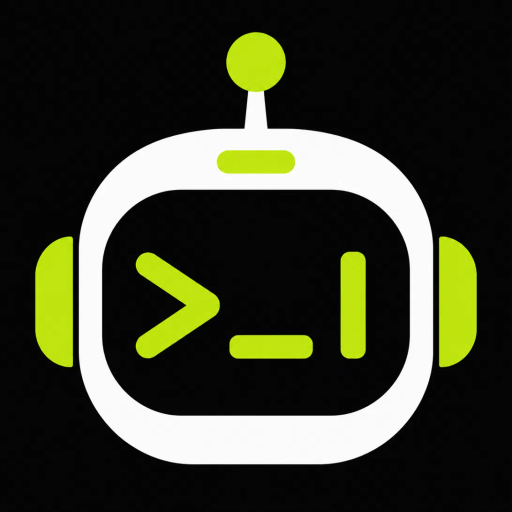
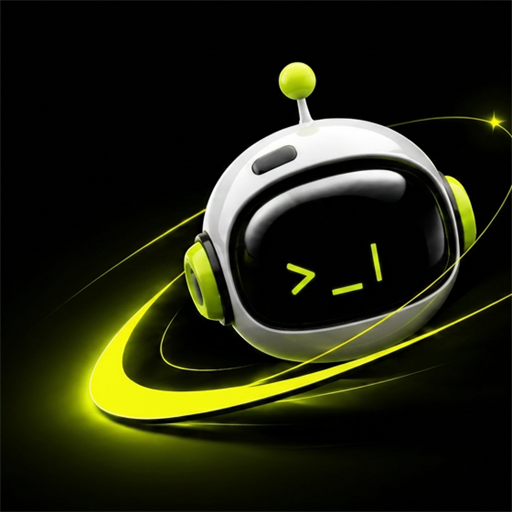
Fix broken og:image, ship updated brand assets, and move sandbox CTA into hero
og-share-card.png was referenced by index.html's og:image/twitter:image
meta tags but was never actually committed - every social share of
testpilotapp.dev has been showing a broken preview image. Added it.

The other four brand PNGs (favicon, apple-touch-icon, icon-512,
instagram-avatar) were re-exported with an alpha channel; losslessly
recompressed with sharp/libvips (compressionLevel 9) before committing
- same pixel dimensions and color data, just not bloated.

Also moved the sandbox demo CTA out of the hero button row and into a
large bordered callout in the hero's open right-hand space (in normal
flow below 1300px width, so it stays visible and doesn't overlap the
headline on tablet/mobile).

Claude-Session: https://claude.ai/code/session_015RNKx7jXYoVMfcrp4KXZBT

diff --git a/landing.html b/landing.html
@@ -226,24 +226,80 @@
 
   .btn-ghost:hover { color: var(--white); border-color: var(--white); }
 
-  .btn-sandbox {
-    display: inline-flex;
-    align-items: center;
-    gap: 10px;
-    background: transparent;
-    color: var(--accent);
-    font-family: 'Syne', sans-serif;
-    font-size: 15px;
-    font-weight: 700;
-    padding: 14px 30px;
-    border-radius: 2px;
-    border: 2px solid var(--accent);
+  /* Big, unmissable sandbox CTA — sits in the empty right side of the hero
+     next to the headline on wide screens; in normal flow (no overlap risk)
+     on anything narrower, including mobile. */
+  .hero-sandbox {
+    display: block;
     text-decoration: none;
-    letter-spacing: -0.2px;
-    transition: transform 0.15s, background 0.15s, color 0.15s;
+    margin-top: 44px;
+    max-width: 480px;
+    padding: 32px 34px;
+    border: 2px solid var(--accent);
+    background: rgba(200, 240, 64, 0.05);
+    opacity: 0;
+    animation: fadeUp 0.7s 0.55s forwards;
+    transition: transform 0.2s ease, background 0.2s ease, border-color 0.2s ease;
   }
 
-  .btn-sandbox:hover { background: var(--accent); color: var(--black); transform: translateY(-2px); }
+  .hero-sandbox:hover {
+    background: rgba(200, 240, 64, 0.1);
+    transform: translateY(-3px);
+  }
+
+  .hero-sandbox-label {
+    display: block;
+    font-family: 'DM Mono', monospace;
+    font-size: 11px;
+    letter-spacing: 2px;
+    text-transform: uppercase;
+    color: var(--accent);
+    margin-bottom: 14px;
+  }
+
+  .hero-sandbox-title {
+    display: block;
+    font-family: 'Syne', sans-serif;
+    font-size: clamp(28px, 3vw, 38px);
+    font-weight: 800;
+    line-height: 1.05;
+    letter-spacing: -1px;
+    color: var(--white);
+  }
+
+  .hero-sandbox-title span { color: var(--accent); }
+
+  .hero-sandbox-sub {
+    display: block;
+    font-family: 'Inter', sans-serif;
+    font-size: 13px;
+    line-height: 1.6;
+    color: var(--muted);
+    margin-top: 14px;
+    max-width: 400px;
+  }
+
+  .hero-sandbox-arrow {
+    display: block;
+    font-family: 'Syne', sans-serif;
+    font-weight: 700;
+    font-size: 14px;
+    color: var(--accent);
+    margin-top: 20px;
+  }
+
+  @media (min-width: 1300px) {
+    .hero-sandbox {
+      position: absolute;
+      top: 150px;
+      right: 40px;
+      margin-top: 0;
+      width: min(440px, 32vw);
+      z-index: 2;
+      transform: rotate(-1.2deg);
+    }
+    .hero-sandbox:hover { transform: rotate(-1.2deg) translateY(-4px); }
+  }
 
   .hero-price-note {
     font-family: 'Inter', sans-serif;
@@ -872,12 +928,16 @@
   </p>
   <div class="hero-actions">
     <a href="/first-run" class="btn-primary">Run your first test — free →</a>
-    <a href="/sandbox" class="btn-sandbox">🧪 Try the Sandbox Demo</a>
     <a href="#how" class="btn-ghost">See how it works</a>
   </div>
-  <p class="hero-price-note" style="margin-top:8px">// No signup, no target app needed — a fully simulated walkthrough</p>
   <p class="hero-price-note">// First test free · No credit card · No API key needed · Just your app's URL</p>
   <div class="hero-deco">TP</div>
+  <a href="/sandbox" class="hero-sandbox">
+    <span class="hero-sandbox-label">// no signup needed</span>
+    <span class="hero-sandbox-title">Try the <span>Sandbox</span> Demo</span>
+    <span class="hero-sandbox-sub">Watch TestPilot learn an app, find a real bug, and heal a broken selector — a fully simulated walkthrough.</span>
+    <span class="hero-sandbox-arrow">Explore it live →</span>
+  </a>
 </section>
 
 <!-- TICKER -->
